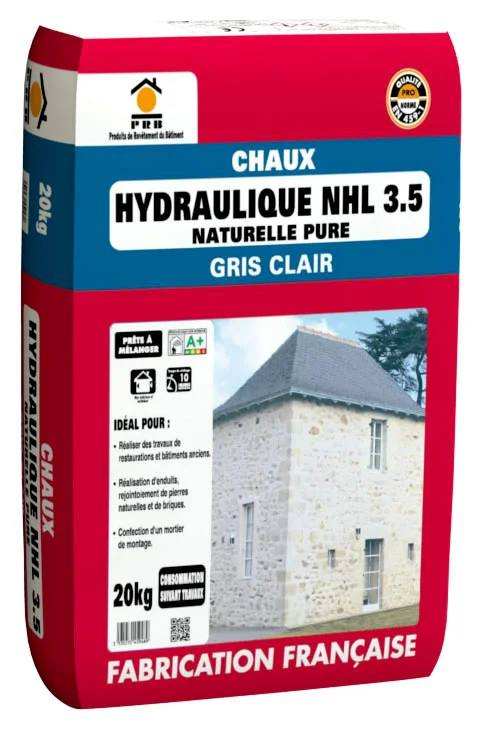
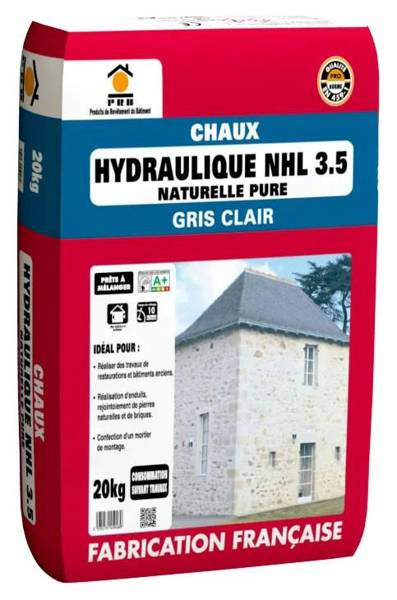
Photos produits plus légères (600 px)
Claude-Session: https://claude.ai/code/session_01FLVtvwSAMkscv9rx1NHrqq

diff --git a/.github/scripts/images.py b/.github/scripts/images.py
@@ -1,6 +1,6 @@
 """Pour chaque produit de images/produits/demandes.json ({id, url}) sans photo :
 suit le lien (affilié), lit la page produit, récupère la photo principale, la compresse
-(800 px max, JPEG qualité 72) en images/produits/<id>.jpg et note titre, description et prix
+(600 px max, JPEG qualité 70) en images/produits/<id>.jpg et note titre, description et prix
 dans images/produits/infos/<id>.json. Résultat global dans images/produits/rapport.json."""
 import html, io, json, os, re, urllib.request
 from datetime import datetime, timezone
@@ -59,8 +59,8 @@ for d in demandes:
         if img.startswith("//"): img = "https:" + img
         _, octets = get(img, "image/avif,image/webp,image/*")
         im = Image.open(io.BytesIO(octets)).convert("RGB")
-        im.thumbnail((800, 800))
-        im.save(f"{D}/{pid}.jpg", "JPEG", quality=72, optimize=True, progressive=True)
+        im.thumbnail((600, 600))
+        im.save(f"{D}/{pid}.jpg", "JPEG", quality=70, optimize=True, progressive=True)
         rapport[pid] = {"ok": True, "taille_ko": round(os.path.getsize(f"{D}/{pid}.jpg") / 1024), "page": infos["page"]}
     except Exception as e:
         rapport[pid] = {"ok": False, "erreur": f"{type(e).__name__}: {str(e)[:200]}"}
